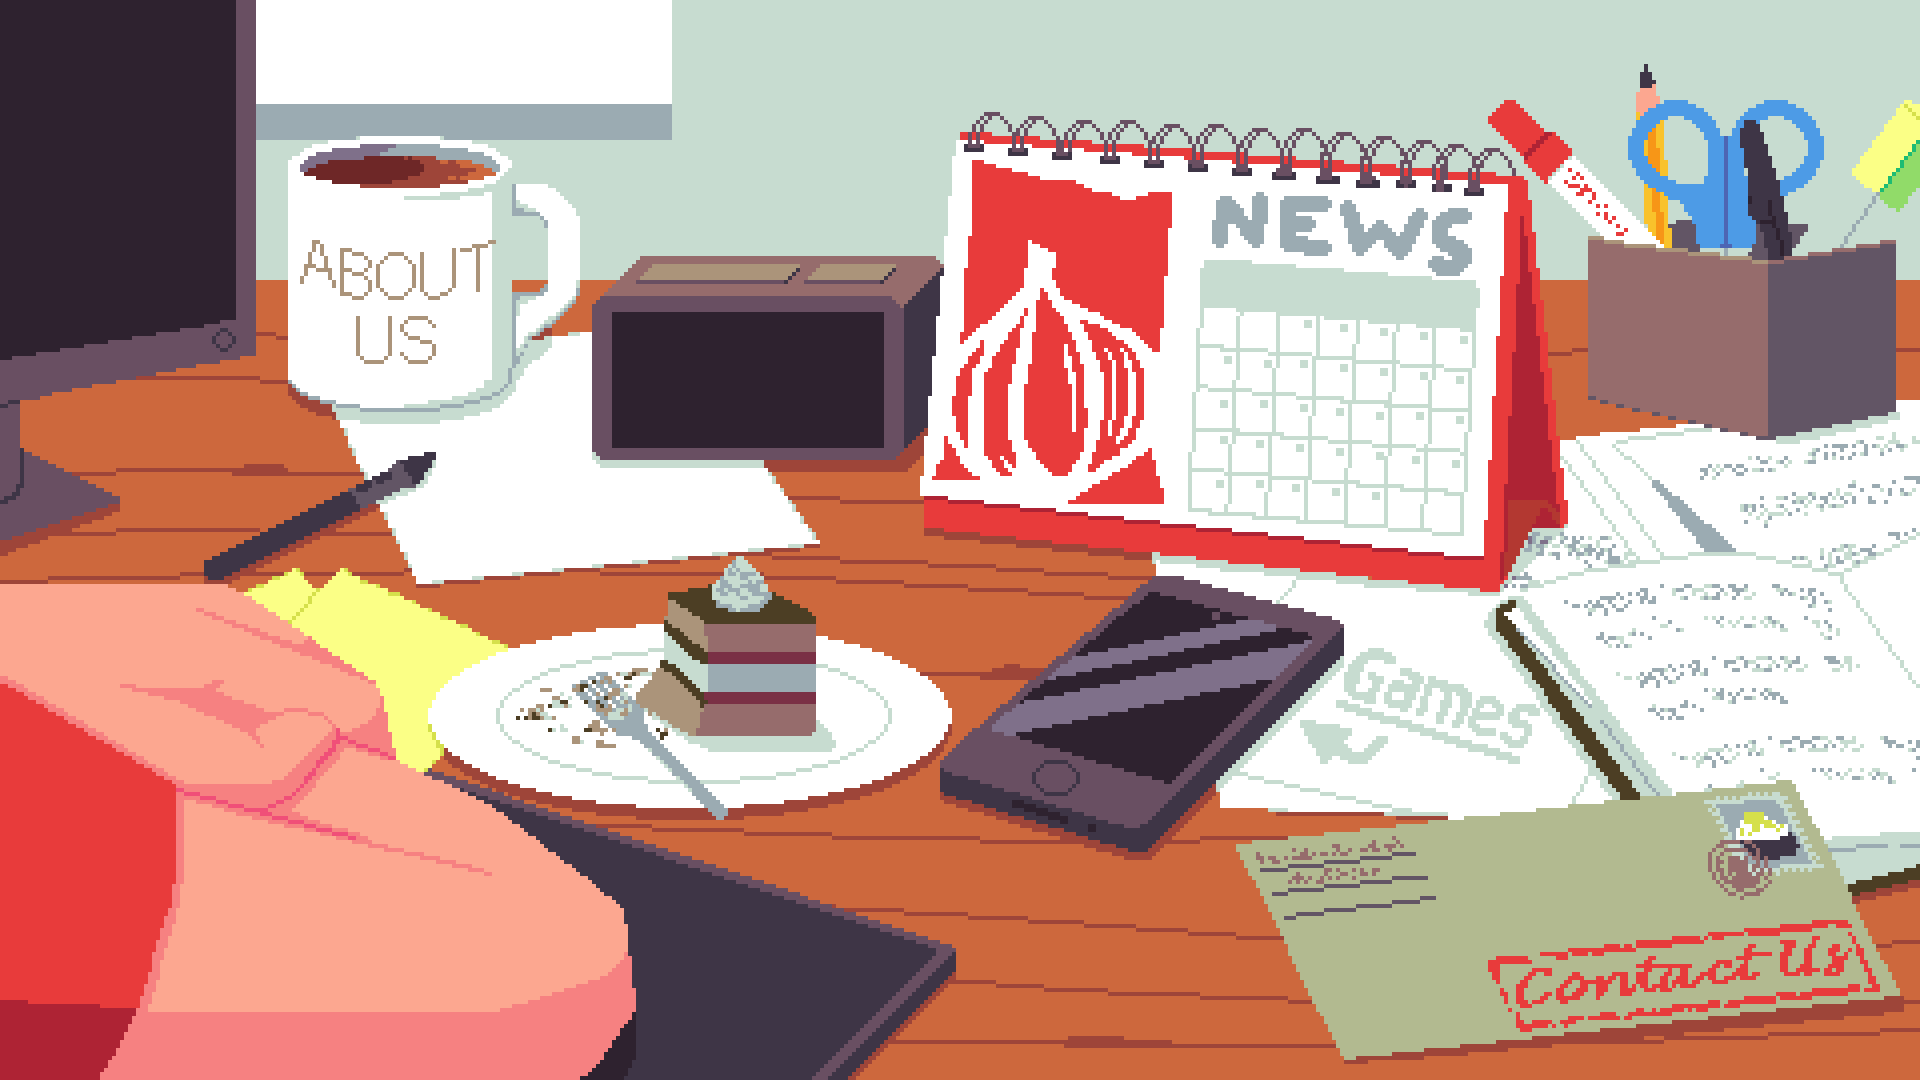
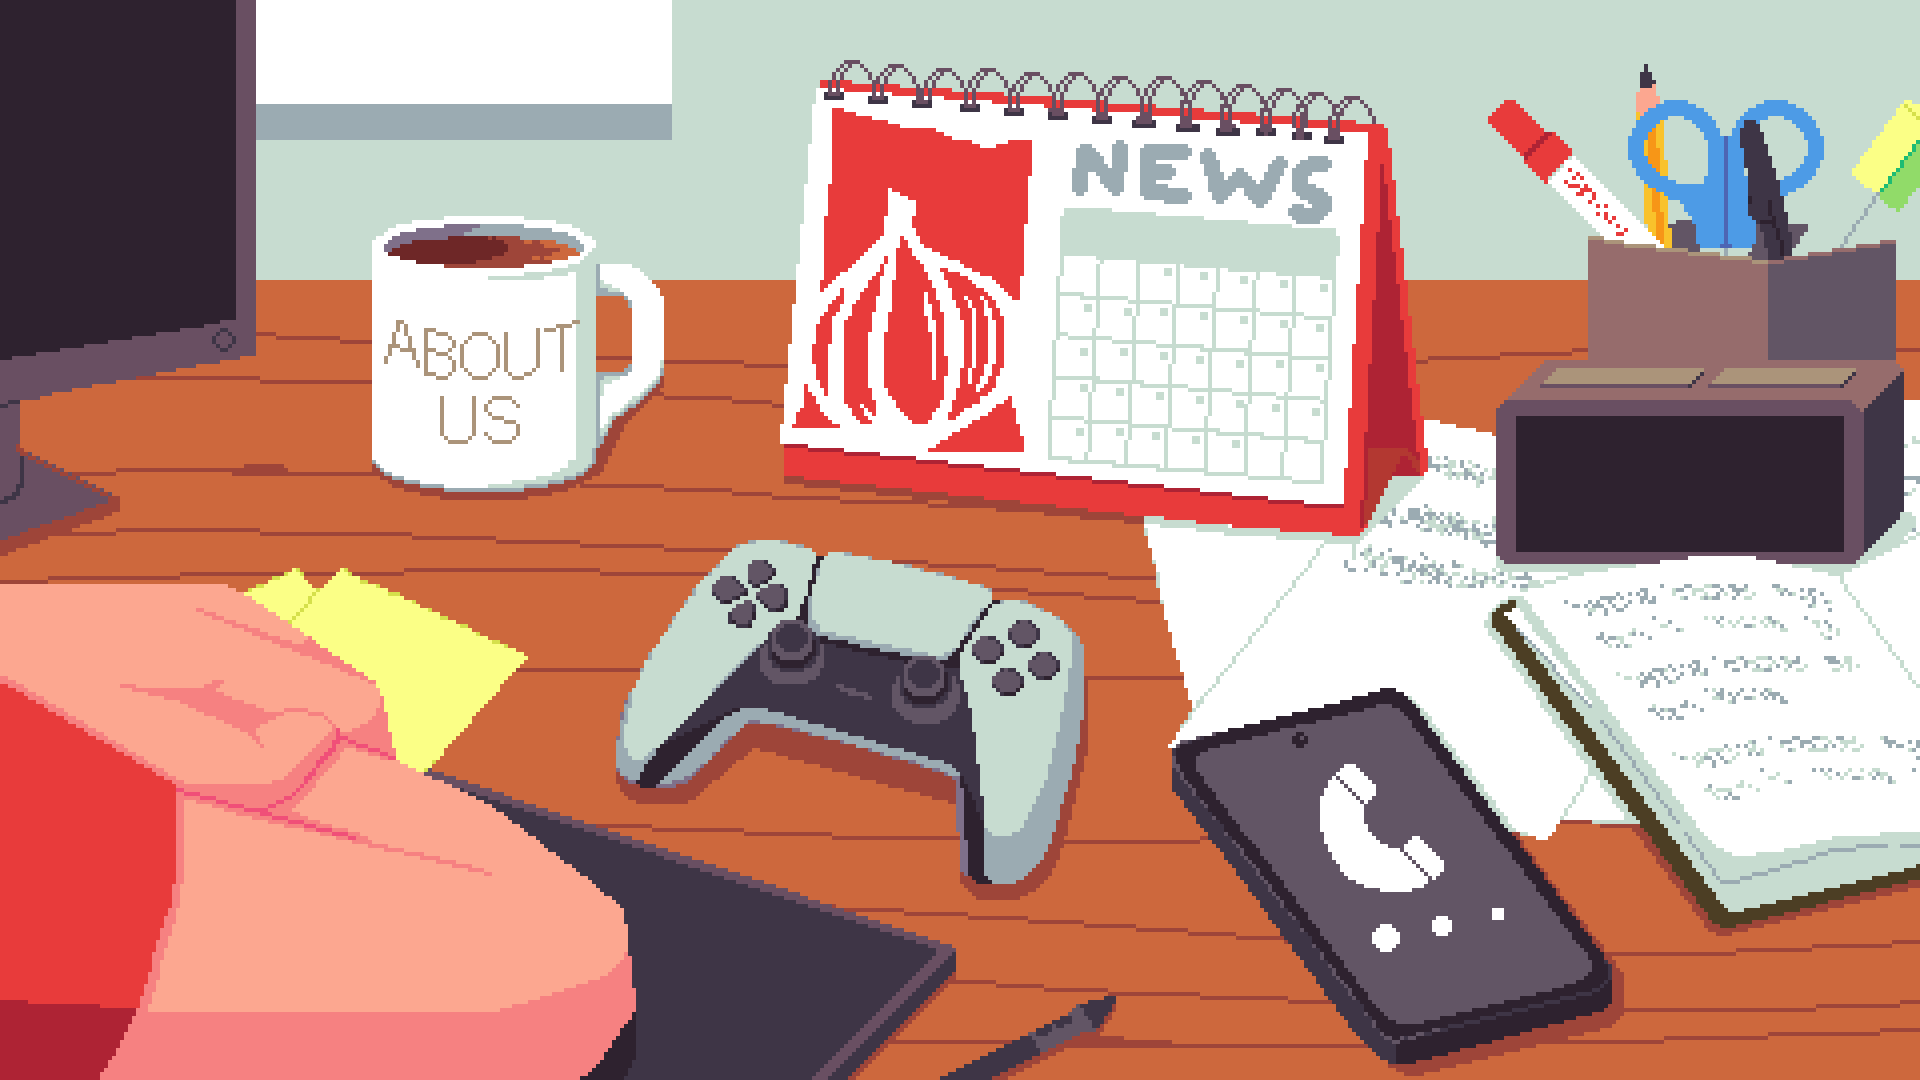
animation update

diff --git a/vite-project/src/components/DeskScene/DeskScene.tsx b/vite-project/src/components/DeskScene/DeskScene.tsx
@@ -4,7 +4,8 @@ import web from "./Web.png";
 import aboutHover from "./AboutUsHover.png";
 import gamesHover from "./GamesHover.png";
 import newsHover from "./NewsHover.png";
-import contactHover from "./ContactUsHover.png";
+
+import { useEffect, useState } from "react";
 
 type DeskSceneProps = {
   onAbout: () => void;
@@ -14,6 +15,45 @@ type DeskSceneProps = {
   onToggleMusic: () => void;
   musicOn: boolean;
 };
+
+function ContactAnimated() {
+  const [frame, setFrame] = useState(0);
+
+  const columns = 4;
+  const rows = 6;
+  const totalFrames = columns * rows;
+
+  useEffect(() => {
+    const interval = setInterval(() => {
+      setFrame((prev) => (prev + 1) % totalFrames);
+    }, 80);
+
+    return () => clearInterval(interval);
+  }, [totalFrames]);
+
+  const col = frame % columns;
+  const row = Math.floor(frame / columns);
+
+  const xPercent = columns > 1 ? (col / (columns - 1)) * 100 : 0;
+  const yPercent = rows > 1 ? (row / (rows - 1)) * 100 : 0;
+
+  return (
+    <>
+      <div
+        className="contact-base"
+        style={{
+          backgroundPosition: `${xPercent}% ${yPercent}%`,
+        }}
+      />
+      <div
+        className="contact-border"
+        style={{
+          backgroundPosition: `${xPercent}% ${yPercent}%`,
+        }}
+      />
+    </>
+  );
+}
 
 export function DeskScene({
   onAbout,
@@ -26,39 +66,40 @@ export function DeskScene({
   return (
     <div className="desk-scene">
       <div className="scene-container">
-      {/* BACKGROUND */}
-      <img className="desk-bg" src={web} draggable={false} />
+        {/* BACKGROUND */}
+        <img className="desk-bg" src={web} draggable={false} />
 
-      {/* ABOUT */}
-      <div className="object about">
-        <img className="hover" src={aboutHover} />
-        <button className="hitbox about-hitbox" onClick={onAbout} />
+        {/* ABOUT */}
+        <div className="object about">
+          <img className="hover" src={aboutHover} />
+          <button className="hitbox about-hitbox" onClick={onAbout} />
+        </div>
+
+        {/* GAMES */}
+        <div className="object games">
+          <img className="hover" src={gamesHover} />
+          <button className="hitbox games-hitbox" onClick={onGames} />
+        </div>
+
+        {/* NEWS */}
+        <div className="object news">
+          <img className="hover" src={newsHover} />
+          <button className="hitbox news-hitbox" onClick={onNews} />
+        </div>
+
+        {/* CONTACT */}
+        <div className="object contact">
+          <button className="contact-hitbox" onClick={onContact} />
+
+          <ContactAnimated />
+        </div>
+
+        {/* MUSIC — Person */}
+        <button
+          className={`hitbox person ${musicOn ? "active" : ""}`}
+          onClick={onToggleMusic}
+        />
       </div>
-
-      {/* GAMES */}
-      <div className="object games">
-        <img className="hover" src={gamesHover} />
-        <button className="hitbox games-hitbox" onClick={onGames} />
-      </div>
-
-      {/* NEWS */}
-      <div className="object news">
-        <img className="hover" src={newsHover} />
-        <button className="hitbox news-hitbox" onClick={onNews} />
-      </div>
-
-      {/* CONTACT */}
-      <div className="object contact">
-        <img className="hover" src={contactHover} />
-        <button className="hitbox contact-hitbox" onClick={onContact} />
-      </div>
-
-      {/* MUSIC — Person */}
-      <button
-        className={`hitbox person ${musicOn ? "active" : ""}`}
-        onClick={onToggleMusic}
-      />
     </div>
-  </div>
   );
 }

diff --git a/vite-project/src/components/DeskScene/DeskScene.css b/vite-project/src/components/DeskScene/DeskScene.css
@@ -46,6 +46,7 @@
 */
 
 
+
 .object {
   position: absolute;
 }
@@ -71,8 +72,8 @@
 
 /* Approximate positions — tweak visually */
 .object.about {
-  left: 14.16%;
-  top: 11.11%;
+  left: 18.55%;
+  top: 18.5%;
   width: 16.87%;
   height: 28.51%;
 }
@@ -84,17 +85,17 @@
 
 .about-hitbox {
   position: absolute;
-  left: 12px;
-  top: 15px;
-  width: 300px;
-  height: 290px;
+  left: 5%;
+  top: 5%;
+  width: 90%;
+  height: 90%;
 }
 
 .object.games {
-  left: 48.125%;
-  top: 51.85%;
-  width: 22.7%;
-  height: 28.889%;
+  left: 31.3%;
+  top: 48.5%;
+  width: 26%;
+  height: 35%;
 }
 
 .object.games .hover {
@@ -104,15 +105,15 @@
 
 .games-hitbox {
   position: absolute;
-  left: 20px;
-  top: 15px;
-  width: 400px;
-  height: 300px;
+  left: 8%;
+  top: 8%;
+  width: 84%;
+  height: 84%;
 }
 
 .object.news {
-  left: 47.08%;
-  top: 8.889%;
+  left: 39.8%;
+  top: 4.1%;
   width: 35.41%;
   height: 47.407%;
 }
@@ -124,37 +125,64 @@
 
 .news-hitbox {
   position: absolute;
-  left: 15px;
-  top: 12px;
-  width: 650px;
-  height: 450px;
+  left: 2%;
+  top: 2%;
+  width: 96%;
+  height: 96%;
 }
 
 .object.contact {
-  right: 0.197%;
-  bottom: 0.351%;
-  width: 36.25%;
-  height: 28.889%;
-}
-
-.object.contact .hover {
-  width: 100%;
-  height: 100%;
+  left: 60%;
+  top: 59%;
+  width: 26.667%;
+  height: 41.482%;
 }
 
 .contact-hitbox {
   position: absolute;
-  right: 10px;
-  bottom: 10px;
-  width: 600px;
-  height: 250px;
+  left: 15%;
+  top: 15%;
+  width: 70%;
+  height: 70%;
+  z-index: 3;
+  opacity: 0;
+}
+
+.contact-anim {
+  position: absolute;
+  inset: 0;
+}
+
+.contact-base,
+.contact-border {
+  position: absolute;
+  inset: 0;
+
+  background-repeat: no-repeat;
+  background-size: 400% 600%;
+  image-rendering: pixelated;
+}
+
+.contact-base {
+  background-image: url("./ContactUs.png");
+  z-index: 1;
+}
+
+.contact-border {
+  background-image: url("./ContactUsHover.png");
+  opacity: 0;
+  z-index: 2;
+}
+
+.object.contact:hover .contact-border {
+  opacity: 1;
 }
 
 .person {
   left: 0%;
   bottom: 0%;
-  width: 35%;
-  height: 45%;
+  width: 30%;
+  height: 30%;
 }
 
 .person.active {

diff --git a/vite-project/src/components/Window/Window.tsx b/vite-project/src/components/Window/Window.tsx
@@ -9,6 +9,8 @@ type WindowProps = {
   onFocus: () => void;
   focused: boolean;
   children: React.ReactNode;
+
+  initialPosition?: { x: number; y: number };
 };
 
 export function Window({
@@ -16,7 +18,7 @@ export function Window({
   onClose,
   onFocus,
   focused,
-  children
+  children,
 }: WindowProps) {
   const nodeRef = useRef<HTMLDivElement>(null);
 
@@ -24,6 +26,7 @@ export function Window({
     <Draggable
       handle=".window-title"
       nodeRef={nodeRef}
+      defaultPosition={initialPosition ?? { x: 400, y: 200 }}
       onStart={onFocus}
     >
       <div
@@ -44,9 +47,7 @@ export function Window({
               <button onClick={onClose}>✕</button>
             </div>
 
-            <div className="window-content">
-              {children}
-            </div>
+            <div className="window-content">{children}</div>
           </motion.div>
         </AnimatePresence>
       </div>
